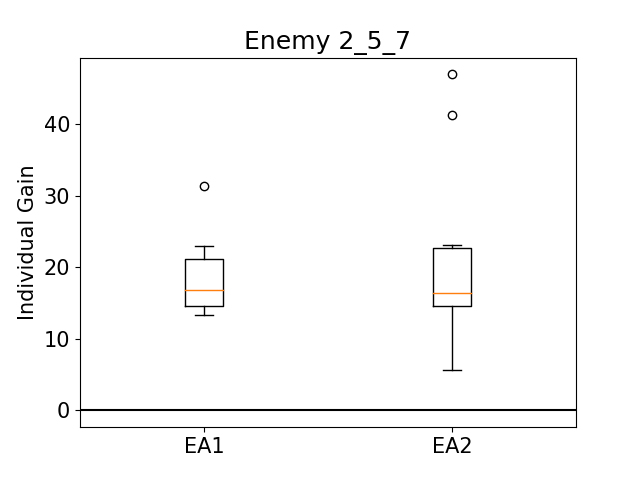
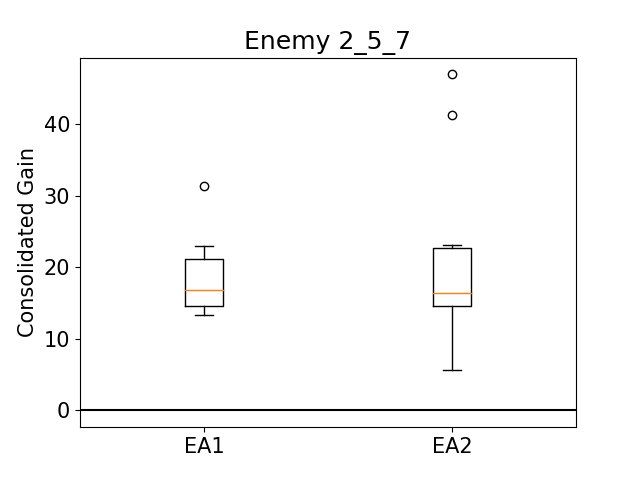
updates in axis label

Changed region(s): [[0.0312, 0.3125, 0.0625, 0.7188]]

diff --git a/T2_plotting.py b/T2_plotting.py
@@ -117,7 +117,7 @@ def box_plot(enemy):
 
     plt.boxplot([avg_1['gain'], avg_2['gain']], labels=['EA1', 'EA2'])
     plt.plot([0.5,1,2,2.5], [0,0,0,0], color ='black') # plot line to highlight 0
-    plt.ylabel('Individual Gain')
+    plt.ylabel('Consolidated Gain')
     plt.title('Enemy ' + str(enemy))
     plt.savefig('boxplot_E' + str(enemy) + '.png')
     plt.show()
